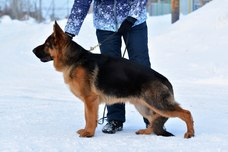
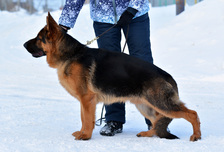
Remove duplicates of show and non-show photos

Changed region(s): [[0.0, 0.0, 0.9375, 0.9474]]

diff --git a/_shows/2015.htm b/_shows/2015.htm
@@ -96,7 +96,7 @@ photo:
 			<p style="text-align: left"><strong>Фанхил Хаус Николетта</strong>, класс юниоров, 3&nbsp;очень хорошо, ЮСС</p>
 			<p style="text-align: left"><strong>Фонте Фиделити Алиша</strong>, класс щенков, 6&nbsp;большая перспектива</p>
 			<p>
-				<a href="/img/photos/shows/2015-tolyatti-1.jpg" title="Хаус Велхольм Вивиана. Монопородная выставка, г. Тольятти, 23 августа 2015 г." rel="a"><img src="/img/photos/shows/2015-tolyatti-1-p.jpg" alt="Хаус Велхольм Вивиана. Монопородная выставка, г. Тольятти, 23 августа 2015 г." width="218" height="152" /></a>
+				{% include photo.html path="2015/08236" title="Хаус Велхольм Вивиана. Монопородная выставка, г. Тольятти, 23 августа 2015 г." h="152" %}
 				{% include photo.html path="2015/08233" title="Хаус Велхольм Вивиана. Монопородная выставка, г. Тольятти, 23 августа 2015 г." h="152" %}
 				{% include photo.html path="2015/08234" title="Хаус Велхольм Вивиана. Монопородная выставка, г. Тольятти, 23 августа 2015 г." h="152" %}
 				<a href="/img/photos/nikoletta/42.jpg" title="Монопородная выставка, г. Тольятти, 23 августа 2015 г. Светлана Крыгина с Николеттой и Александром Сороко" rel="a"><img src="/img/photos/nikoletta/42-p.jpg" alt="Монопородная выставка, г. Тольятти, 23 августа 2015 г. Светлана Крыгина с Николеттой и Александром Сороко" width="108" height="152" /></a>

diff --git a/_perdog_cards/itan.htm b/_perdog_cards/itan.htm
@@ -30,7 +30,7 @@ photo: 2019/10193-1-w588
 		<td rowspan="4">
 			<p>Чемпион России,<br />Юный Чемпион России,<br />Чемпион РКФ</p>
 			<p>Ersteshrit Aleks</p>
-			<a href="/img/photos/aleks/main-new.jpg" title="Ersteshrit Aleks" rel="a"><img src="/img/photos/aleks/main-new.jpg" alt="Ersteshrit Aleks" width="168" height="120" /></a>
+			<a href="/img/photos/aleks/2016-tolyatty-25092016-3.jpg" title="Ersteshrit Aleks" rel="a"><img src="/img/photos/aleks/2016-tolyatty-25092016-3-p.jpg" alt="Ersteshrit Aleks" width="168" height="120" /></a>
 		</td>
 		<td rowspan="2"><p>Отборный класс</p><p>Count Ustinov van de Ybajo Hoeve</p></td>
 		<td><p>Отборный класс</p><p>Ustinov vom Römerland</p></td>
@@ -49,7 +49,7 @@ photo: 2019/10193-1-w588
 		<td rowspan="4">
 			<p>Чемпион России,<br>Чемпион РКФ</p>
 			<p>Фанхил Хаус Деметра</p>
-			<a href="/img/photos/demetra/main.jpg" title="Фанхил Хаус Деметра" rel="a"><img src="/img/photos/demetra/main.jpg" alt="Фанхил Хаус Деметра" width="168" height="112" /></a>
+			<a href="/img/photos/2016-samara-25072016-10.jpg" title="Фанхил Хаус Деметра" rel="a"><img src="/img/photos/2016-samara-25072016-10.jpg" alt="Фанхил Хаус Деметра" width="168" height="112" /></a>
 		</td>
 		<td rowspan="2"><p>Юный Чемпион России,<br />Чемпион России,<br />Чемпион РКФ</p><p>Atsel Hof El-Toro</p></td>
 		<td><p>Отборный класс</p><p>Siska von der Freiheit Westerholt</p></td>

diff --git a/_perdog_cards/demetra.htm b/_perdog_cards/demetra.htm
@@ -4,7 +4,7 @@ name_gen: Фанхил Хаус Деметры
 categories: females
 dob: 2013-08-30
 veteran: true
-photo: photos/demetra/main
+photo: photos/shows/2016-samara-25072016-10
 ---
 <ul class="titles">
 	<li>Чемпион России</li>
@@ -18,7 +18,7 @@ photo: photos/demetra/main
 	<li>ЮСС</li>
 </ul>
 <p>ОКД 2, ЗКС 1; HD-A, ED-0; Kkl 1П</p>
-<img src="/img/photos/demetra/main.jpg" width="588" height="393" alt="Фотография Фанхил Хаус Деметры" />
+<img src="/img/photos/shows/2016-samara-25072016-10.jpg" width="588" height="393" alt="Фотография Фанхил Хаус Деметры" />
 <p><a href="photos.htm">Фотографии</a> | <a href="video.htm">Видео</a> | <a href="shows.htm">Результаты выставок</a></p>
 <p>Родословная: <a href="http://www.pedigreedatabase.com/german_shepherd_dog/dog.html?id=2069514" target="_blank">Pedigree Database</a>,<br/><a href="http://database.gsdog.ru/dog.php?screen=1&amp;id=25363" target="_blank">GSDOG</a></p>
 <table class="pedigree">

diff --git a/_perdog_cards/inessa.htm b/_perdog_cards/inessa.htm
@@ -44,7 +44,7 @@ photo: 2020/01151-w588
 		<td rowspan="4">
 			<p>Чемпион России,<br>Чемпион РКФ</p>
 			<p>Фанхил Хаус Деметра</p>
-			<a href="/img/photos/demetra/main.jpg" title="Фанхил Хаус Деметра" rel="a"><img src="/img/photos/demetra/main.jpg" alt="Фанхил Хаус Деметра" width="168" height="112" /></a>
+			<a href="/img/photos/2016-samara-25072016-10.jpg" title="Фанхил Хаус Деметра" rel="a"><img src="/img/photos/2016-samara-25072016-10.jpg" alt="Фанхил Хаус Деметра" width="168" height="112" /></a>
 		</td>
 		<td rowspan="2"><p>Юный Чемпион России,<br />Чемпион России,<br />Чемпион РКФ</p><p>Atsel Hof El-Toro</p></td>
 		<td><p>Отборный класс</p><p>Siska von der Freiheit Westerholt</p></td>
